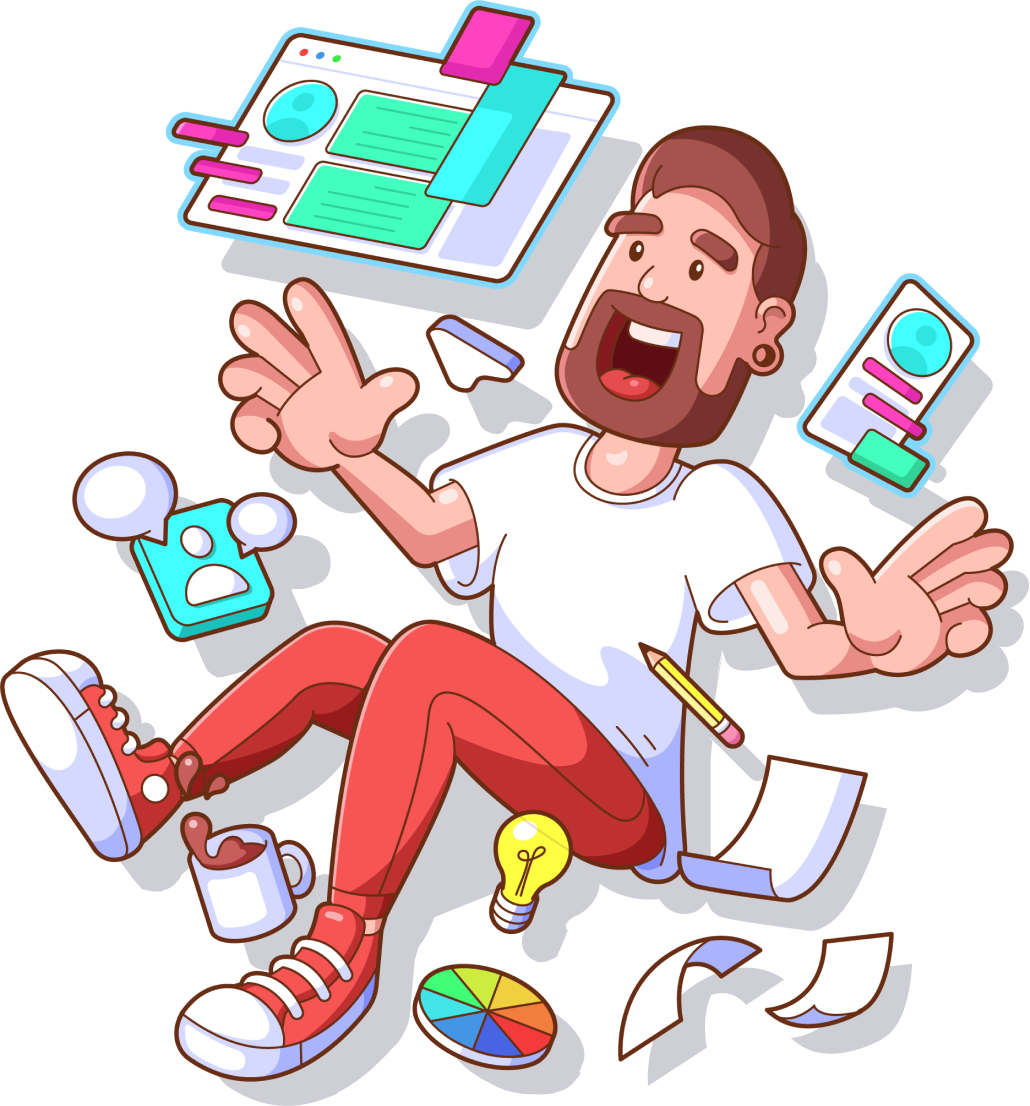
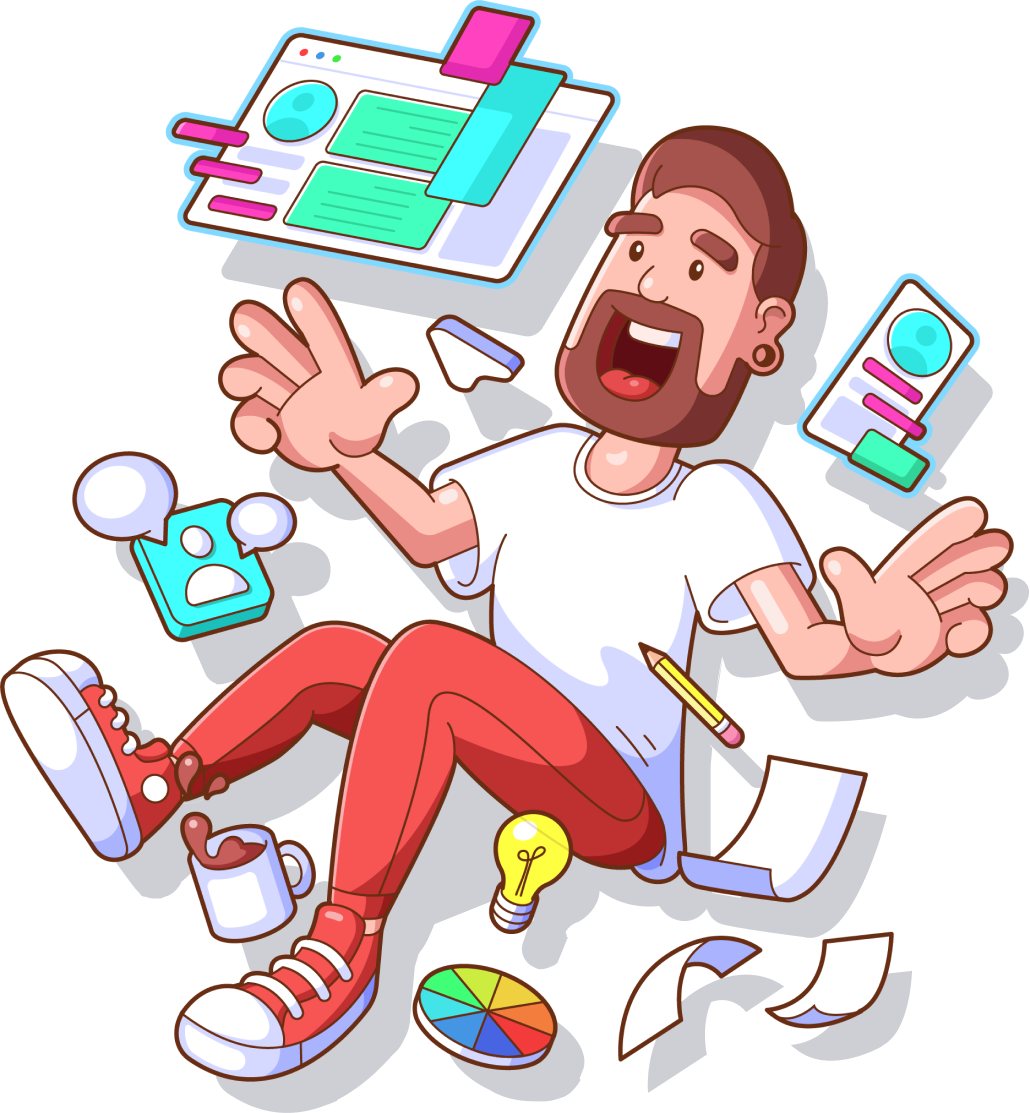
hero-fix

diff --git a/index.html b/index.html
@@ -10,7 +10,7 @@
         <!-- HEADER -->
         <header class="vh-header">
             <div class="header-content-container">
-                <img src="assets/images/holtz-logo3.png" alt="" class="logo-img">
+                <img src="assets/images/holtz-logo2.png" alt="" class="logo-img">
                 <div class="vh-nav-bar--header">
                     <a href="#about-me" class="nav-item about-me">Sobre mim</a>
                     <span class="nav-divider"></span>
@@ -40,9 +40,9 @@
                     <h1 class="hero-cta">Designer, ilustrador e entusiasta em transformar boas ideias em realidade</h1>
                     <div class="primary-btn">Fale comigo</div>
                 </div>
-    
                 <div class="hero-img-container">
-                    <img src="assets/images/vh-draw-hot.png" alt="">
+                    <img src="assets/images/vh-draw-hot.png" alt="" class="hero-img-1">
+                    <img src="assets/images/vh-draw-cold.png" alt="" class="hero-img-2">
                 </div>
                 <span class="animated-line"></span>
                 <span class="animated-line"></span>
@@ -55,8 +55,8 @@
                 <span class="hero-detail-right"></span>
                 <span class="hero-detail-left"></span>
             </div>
+            <div class="hero-grid-bg-effect"></div>
         </section>
-
 
         <!-- Introduction -->
         <img src="assets/images/profile-picture.png" alt="" class="intro-img">
@@ -93,7 +93,7 @@
             </div>
             <div class="skill-card grid-col-span-1">
                 <img src="assets/images/illustration-skill.png" alt="" class="skill-img">
-                <h3 class="skill-title">Ilustração</h3>
+                <h3 class="skill-title">Ilustração(Trocar com fron-end)</h3>
                 <p class="skill-text">Criação de ilustrações que conferem personalidade ao produto, enriquecem a experiência e orientam o usuário de maneira divertida nos <strong>momentos certos.</strong></p>
             </div>
             <img src="assets/images/skill-display-detail-left.svg" alt="" class="skill-display-detail-left-xl">

diff --git a/sass/style.css b/sass/style.css
@@ -143,6 +143,18 @@ select {
     transform: translatey(0px);
   }
 }
+@keyframes hero-grid-animation {
+  0% {
+    opacity: 0;
+  }
+  50% {
+    opacity: 1;
+  }
+  100% {
+    background-position: 0% -100%;
+    opacity: 0;
+  }
+}
 * {
   color: inherit;
   margin: 0;
@@ -412,6 +424,7 @@ svg {
 
 .border-details {
   display: flex;
+  z-index: 2;
 }
 .border-details--footer span:nth-child(n+1) {
   background-color: #2B2B36;
@@ -804,7 +817,7 @@ svg {
   gap: 80px;
   padding: 0 24px;
   position: relative;
-  animation: smoothshow 2s both;
+  z-index: 2;
 }
 @media (max-width: 1520px) {
   .vh-hero .hero-content-container {
@@ -873,10 +886,37 @@ svg {
   }
 }
 .vh-hero .hero-content-container .hero-img-container {
+  position: relative;
   animation: float 4s ease-in-out infinite;
   max-width: 520px;
 }
+.vh-hero .hero-content-container .hero-img-container .hero-img-2 {
+  position: absolute;
+  top: 0;
+  left: 0;
+  animation: imgfade 10s infinite;
+}
+.vh-hero .hero-grid-bg-effect {
+  position: absolute;
+  width: 100%;
+  height: 100%;
+  opacity: 1;
+  background-image: linear-gradient(rgba(255, 255, 255, 0.1529411765) 1px, transparent 1px), linear-gradient(to right, rgba(255, 255, 255, 0.1529411765) 1px, transparent 1px);
+  background-size: 120px 120px;
+  animation: hero-grid-animation 8s infinite ease;
+}
 
+@keyframes imgfade {
+  0% {
+    opacity: 1;
+  }
+  50% {
+    opacity: 0;
+  }
+  100% {
+    opacity: 1;
+  }
+}
 .intro-img {
   border-radius: 100%;
   width: 120px;

diff --git a/sass/components/_hero.scss b/sass/components/_hero.scss
@@ -59,7 +59,7 @@
         gap: 80px;
         padding: 0 24px;
         position: relative;
-        animation: smoothshow 2s both;
+        z-index: 2;
 
         @include breakpoint(1520px) {
             max-width: 1080px;
@@ -115,8 +115,39 @@
         }
 
         .hero-img-container {
-            animation: float 4s ease-in-out infinite;
-            max-width: 520px;
+          position: relative;
+          animation: float 4s ease-in-out infinite;
+          max-width: 520px;
+
+            .hero-img-2 {
+              position: absolute;
+              top: 0;
+              left: 0;
+              animation: imgfade 10s infinite;
+            }
         }
     }
+
+    .hero-grid-bg-effect {
+      position: absolute;
+      width: 100%;
+      height: 100%;
+      opacity: 1;
+      background-image:  linear-gradient(#ffffff27 1px, transparent 1px), linear-gradient(to right, #ffffff27 1px, transparent 1px);
+      background-size: 88px 88px;
+      animation: hero-grid-animation 8s infinite ease;
+    }
+  }
+
+  
+@keyframes imgfade {
+	0% {
+		opacity: 1;
+	}
+	50% {
+		opacity: 0;
+	}
+  100% {
+		opacity: 1;
+	}
 }

diff --git a/sass/styles/_keyframes.scss b/sass/styles/_keyframes.scss
@@ -23,3 +23,17 @@
 		transform: translatey(0px);
 	}
 }
+
+@keyframes hero-grid-animation {
+	0% {
+		opacity: 0;
+	}
+	50% {
+		opacity: 1;
+	}
+
+	100% {
+		background-position: 0% -100%;
+		opacity: 0;
+	}
+}

diff --git a/sass/components/_cross-components.scss b/sass/components/_cross-components.scss
@@ -147,6 +147,7 @@
 // Corte das bordas
 .border-details {
     display: flex;
+    z-index: 2;
 
     &--footer span:nth-child(n+1)  {
         background-color: $h-black;

diff --git a/script.js b/script.js
@@ -32,4 +32,3 @@ btn.on('click', function(e) {
   $('html, body').animate({scrollTop:0}, '300');
 });
 
-
